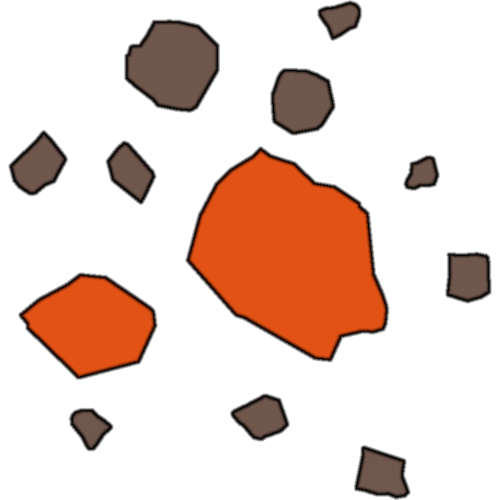
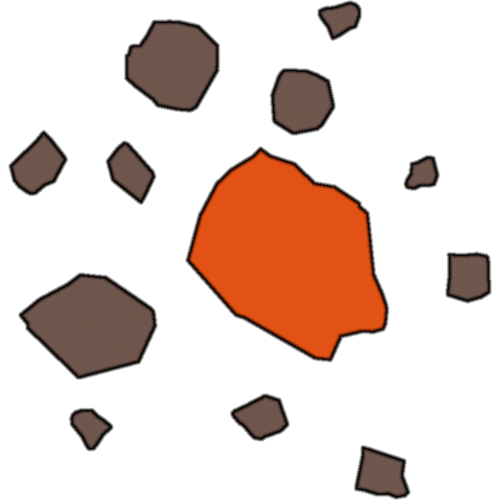
quick bug fix

Changed region(s): [[0.03, 0.54, 0.33, 0.75]]

diff --git a/frontend/src/components/maps/GalaxySectorMap.tsx b/frontend/src/components/maps/GalaxySectorMap.tsx
@@ -4,7 +4,7 @@ import asteroidFieldIconUrl from "../../assets/map/AsteroidFieldIcon.png";
 import asteroidFieldIconUnknownUrl from "../../assets/map/AsteroidFieldIconUnknown.png";
 import asteroidFieldIcon1x1Url from "../../assets/map/AsteroidFieldIcon1x1.png";
 import asteroidFieldIcon1x1DoubleUrl from "../../assets/map/AsteroidFieldIcon1x1-2.png";
-import asteroidFieldIcon1x1And2x2Url from "../../assets/map/AsteroidFieldIcon1x1and2x2.png";
+import asteroidFieldIcon1x1And2x2Url from "../../assets/map/AsteroidFieldIcon1x1-2x2.png";
 import asteroidFieldIcon2x2Url from "../../assets/map/AsteroidFieldIcon2x2.png";
 import scannedDuelconUrl from "../../assets/map/ScannedDuelcon.png";
 import rescanDueIconUrl from "../../assets/map/RescanDueIcon.png";

diff --git a/backend/app/Http/Controllers/Api/Universe/UniverseController.php b/backend/app/Http/Controllers/Api/Universe/UniverseController.php
@@ -733,6 +733,9 @@ class UniverseController extends Controller
 
     public function hyperPlanner(Request $request): JsonResponse
     {
+        // The planner reads a large slice of the universe graph. Use lighter
+        // query-builder rows here so production does not exhaust memory while
+        // hydrating thousands of full Eloquent models.
         $validated = $request->validate([
             'from' => ['required', 'string', 'max:255'],
             'to' => ['required', 'string', 'max:255'],
@@ -746,7 +749,7 @@ class UniverseController extends Controller
         $directJourneyLength = 0;
         $directTripSeconds = 0;
 
-        $systems = SwcSystem::query()
+        $systems = DB::table('swc_systems')
             ->whereNotNull('galx')
             ->whereNotNull('galy')
             ->get([
@@ -762,12 +765,12 @@ class UniverseController extends Controller
 
         $systemsById = $systems->keyBy('id');
         $systemsByUid = $systems
-            ->filter(fn (SwcSystem $system) => is_string($system->uid) && trim($system->uid) !== '')
-            ->keyBy(fn (SwcSystem $system) => trim((string) $system->uid));
+            ->filter(fn ($system) => is_string($system->uid) && trim($system->uid) !== '')
+            ->keyBy(fn ($system) => trim((string) $system->uid));
         $systemsByIdentifier = $systems
-            ->filter(fn (SwcSystem $system) => is_string($system->identifier) && trim($system->identifier) !== '')
-            ->keyBy(fn (SwcSystem $system) => trim((string) $system->identifier));
-        $systemsByCoords = $systems->keyBy(fn (SwcSystem $system) => $this->systemCoordKey($system->galx, $system->galy));
+            ->filter(fn ($system) => is_string($system->identifier) && trim((string) $system->identifier) !== '')
+            ->keyBy(fn ($system) => trim((string) $system->identifier));
+        $systemsByCoords = $systems->keyBy(fn ($system) => $this->systemCoordKey($system->galx, $system->galy));
         $systemsByName = [];
 
         foreach ($systems as $system) {
@@ -843,7 +846,7 @@ class UniverseController extends Controller
         $adjacency = [];
 
         foreach (
-            SwcHyperlane::query()->orderBy('name')->get([
+            DB::table('swc_hyperlanes')->orderBy('name')->get([
                 'uid',
                 'source_system_id',
                 'name',
@@ -1317,7 +1320,7 @@ class UniverseController extends Controller
     }
 
     protected function buildPlannerDirectEdgeToEndpoint(
-        SwcSystem $sourceSystem,
+        object $sourceSystem,
         array $toEndpoint,
         string $endNode,
         int $pilotingSkill,
@@ -1605,7 +1608,7 @@ class UniverseController extends Controller
         ]);
     }
 
-    protected function serializePlannerSystem(?SwcSystem $system): ?array
+    protected function serializePlannerSystem(?object $system): ?array
     {
         if (!$system) {
             return null;
@@ -1622,7 +1625,7 @@ class UniverseController extends Controller
         ];
     }
 
-    protected function buildPlannerSystemEndpoint(?SwcSystem $system): ?array
+    protected function buildPlannerSystemEndpoint(?object $system): ?array
     {
         if (!$system) {
             return null;
